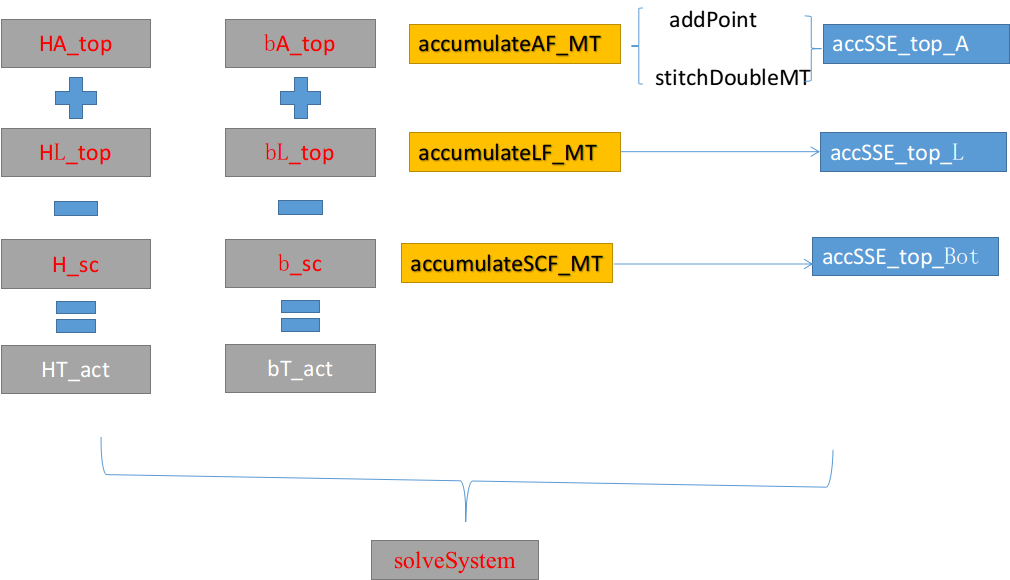
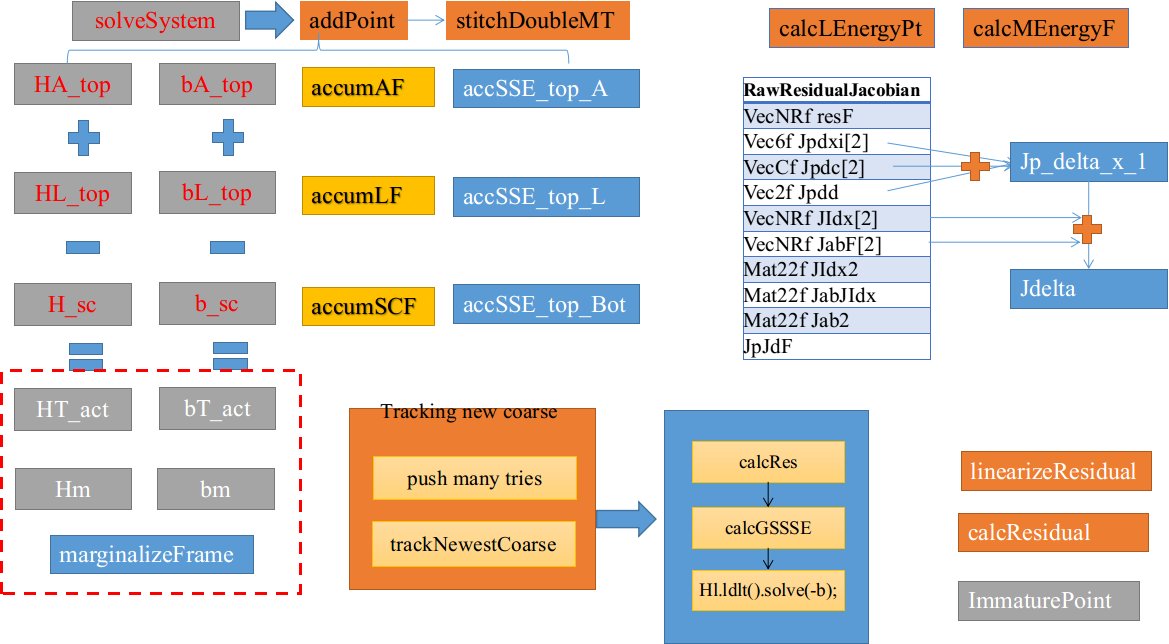
add font-end

diff --git a/_posts/2017-2-28-dso-slam.md b/_posts/2017-2-28-dso-slam.md
@@ -11,8 +11,8 @@ tags:
 
 最近再看OSO的代码，这里总结一下。
 这里首先介绍一些变量的名称便于之后的理解。
-# 变量及函数名称简介
-## FrameHessian
+## 变量及函数名称简介
+### FrameHessian
 1. EFFrame其中的EF表示的是Energy Function，类似的是EFPoint。这两个类分别被FrameHessian和PointHessian调用。
 2. AffLight表示光度模型和曝光量的两个参数a，曝光量。b光度学模型的偏置。
 3. trackNewCoarse 中关心的内容是三帧分别是slast、sprelast、lastF。lastF表示最近的参考帧coarseTracker->lastRef。slast、sprelast表示allFrameHistory中的最新的两帧图像。
@@ -23,48 +23,29 @@ tags:
 8. CPARS = 4, PARS表示intrinsic parameters。VecCf表示 CPARS 数量的float vector 。
 9.
 
-## Tracking new coarse
-该函数被makeKeyFrame和makeNonKeyFrame被调用。两者在mappingLoop和makeNonKeyFrame中分情况对立出现。
+
+### pixelSelector and pixelSelector2
+1. 两者被被CoarseInitializer中的setFirst调用。
+2. 另外后者还被makemaps调用，出现在trackNewCoarse中。
+
+
+系统的流程下图所示：
+![流程图](/img/dso.jpg)
+## 前端
+DSO的前端比较容易理解，首先从数据集合或者订阅ROS topic，读入图像，然后对图像简单的处理。系统首先构造一个类FullSystem，在这个类中定义了系统的顶层函数，包括、、如下所示
+![](/img/dso-slam-FullSystemVariables.png)
+黑色字体是前端部分使用的一些函数，后端的优化函数是红色字体。FullSystem首先执行active frame，在其中跟踪第一帧，使用CoarseInitializer完成系统的初始化，然后跟踪新到帧。对于新到帧处理为trackNewCoarse函数。
+
+进入trackNewCoarse函数可以看到内部，使用calcResume函数计算残差，然后SSE加速计算jacobian，最后使用Eigen函数idlt求解线性方程。
+
 该函数的主要内容是
 1. push many tries，这些tries是根据上一次的运动量做的估计，分别在上一帧的运动上上增加了许多微调，单倍上次运动，双倍运动，上次运动的一半。还有xyz三个轴分别扰动0.05。
 2. for every tries, do trackNewestCoarse。其中trackNewestCoarse做的事有
   - 根据tries计算对应残差
   - 根据根据残差和梯度计算雅克比矩阵
   - 迭代优化位姿
-
-
-## pixelSelector and pixelSelector2
-1. 两者被被CoarseInitializer中的setFirst调用。
-2. 另外后者还被makemaps调用，出现在trackNewCoarse中。
-
-traceNewCoarse 的主要作用是给被跟踪的点分类。
-## 边缘化
-1. schur操作中边缘话关键帧位于函数ef-marginalizeFrame()
-2. schur操作中边缘话路标点位于函数ef-marginalizePointF()
-
-
-
-# 主要流程
-1. 读入图像，FullSystem 执行 active frame
-2. FullSystem run dilver tracked frame
-
-## FullSystem->active frame
-1. Initialization
-2. Tracking frame in first frame, Initialization complete.
-3. Tracking new coarse.
-
-
-## dilver tracker frame
-1. display image
-2. make key frame
-
-
-## dilver tracker frame
-1. display image
-2. make key frame
-
-
-### make kf
+## 关键帧
+FullSystem在执行active frame完之后，进入dilver tracker frame，这里首先进行display image，然后进行make key frame。其中包括一下内容：
 1. trace new coarse
 2. flag frame for marginalization
 3. add frame to Struct
@@ -75,23 +56,11 @@ traceNewCoarse 的主要作用是给被跟踪的点分类。
 8. get nulll space
 9. marginalize points
 
-## marginalize frame
-1. ef-> marginalize frame
-  -
-2. for every frame in our the buffer
-  - for evert points in the frame
-    - get residuals
-    - statistics_numForceDroppedResFwd
-    - ef->dropResidual(r->efResidual);
-    -
-
-![流程图](/img/dso.jpg)
-## 前端
-DSO的前端比较容易理解，首先从数据集合或者订阅ROS topic，读入图像，然后对图像简单的处理。系统首先构造一个类FullSystem，在这个类中定义了系统的顶层函数，包括、、如下所示
-![](/img/dso-slam-FullSystemVariables.png)
-黑色字体是前端部分使用的一些函数，后端的优化函数是红色字体。
+traceNewCoarse 的主要作用是给被跟踪的点分类。该函数被makeKeyFrame和makeNonKeyFrame被调用。两者在mappingLoop和makeNonKeyFrame中分情况对立出现。
 
 ## 关于optimization
+后端的优化主要包括计算残差、线性化点、计算能量L以及能量M、Apply Res Reductor、系统迭代求解。
+
 DSO的后端很大。这里主要包含四个类分别是EFResidual、EFFrame、EFPoint以及EFFunctional。这个四个类的主要EFResidual主要负责计算残差，成员函数很简单，仅有takeDataF()。该函数用来计算JI_JI_Jd，EFFrame、EFPoint都有这个函数。
 
 另外三个类主要提供了成员变量，这些数据的操作在EFFunctional中，四个类的成员变量如表所示
@@ -100,6 +69,9 @@ DSO的后端很大。这里主要包含四个类分别是EFResidual、EFFrame、
 ![](/img/optimization.png)
 
 ### 计算残差
+在ImmaturePoint类中定义了函数calcResidual和linearizeResidual，分别用来计算残差以及计算残差的线性化。这些残差在优化中中被再次使用，累计优化。
+
+那么残差是如何更新的呢？
 
 ### 线性化
 线性化是优化的前提，在程序中，对于每个点Hessian的计算有三种方式，分别是激活点，线性化点和边缘化点，但是在类EFPoint张并没有设置标志这些类的标志，那么为什么要使用不同的模式来计算Hessian呢？
@@ -123,7 +95,21 @@ void fixLinearizationF(EnergyFunctional \*ef);
 EFPoint中包含了很多Hcd以及bd这些被由AccumulatorXX 或者AccumulatorX构造的累计器累计，RawResidualJacobian构造了许多雅克比项，这些由linearize计算，得到Hessian，然后在accSSE_top_L和accSSE_top_L累计。线性化完毕之后计算L Energy和M energy两者之间的不同在在于前者使用了激活点和线性化点的Hessian，后者计算了边缘化，schur complement操作之后的Hessian。如下图所示。
 ![](/img/optimization1.png)
 其中线性化Hessian对目标函数。在计算JI^T * r 和 Jab^T * r中，激活点的r只是残差，而线性化能量是通过雅克比矩阵计算，这里体现relinearize。论文中提到 多次线性化能够降低线性化误差。
+## 边缘化
+边缘化的对象主要有2种，分别是pose和point。
+1. schur操作中边缘话关键帧位于函数ef-marginalizeFrame()
+2. schur操作中边缘话路标点位于函数ef-marginalizePointF()
 
+### marginalize frame
+
+1. ef-> marginalize frame
+  -
+2. for every frame in our the buffer
+  - for evert points in the frame
+    - get residuals
+    - statistics_numForceDroppedResFwd
+    - ef->dropResidual(r->efResidual);
+    -
 ## 一些区分
 ### stitchDouble、getStitchedDeltaF、setDeltaF
 stitchDouble前者是accumulateTop的成员函数，在addpoint中计算的H的基础上叠加了host、target的位姿，最后加上先验信息。
